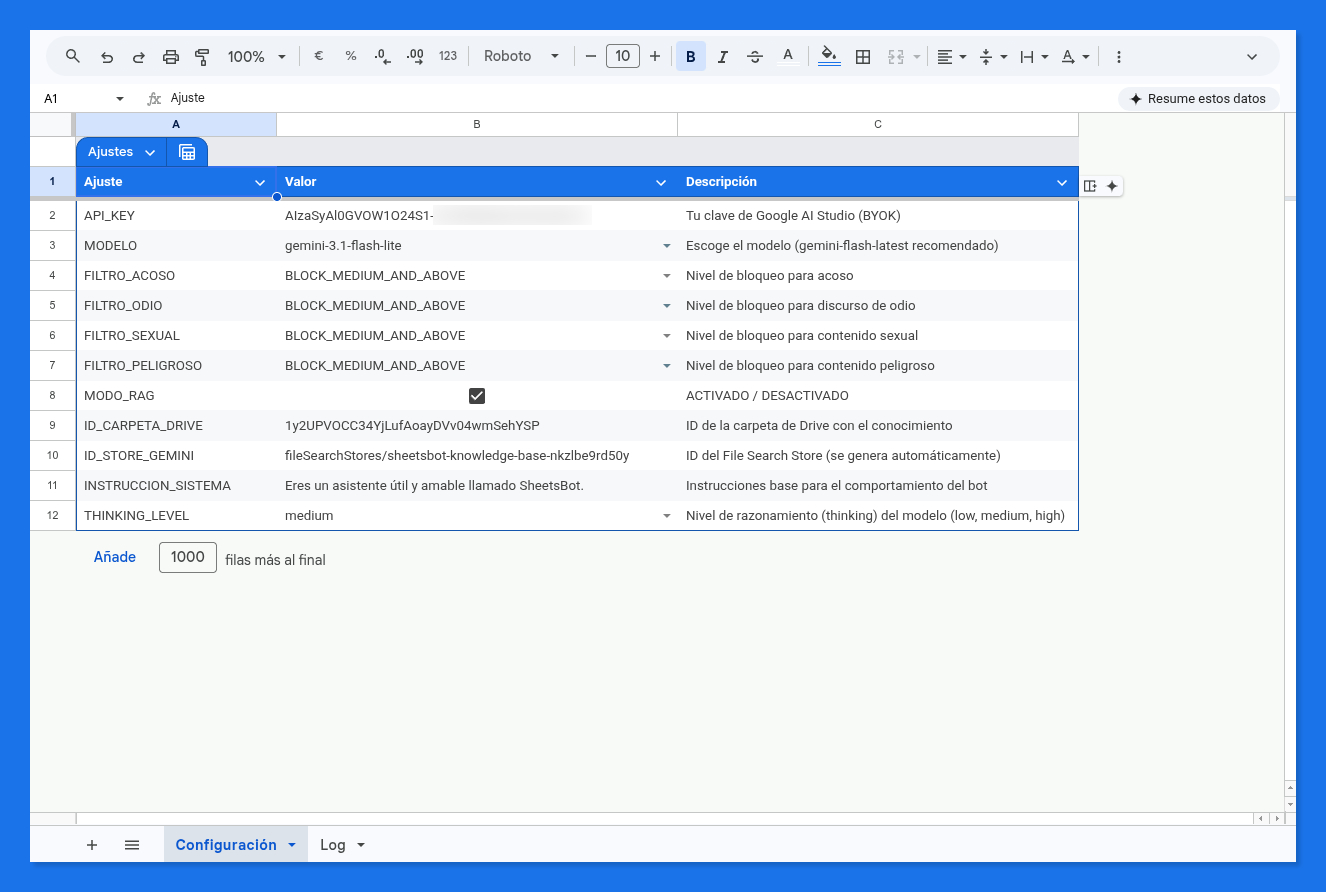
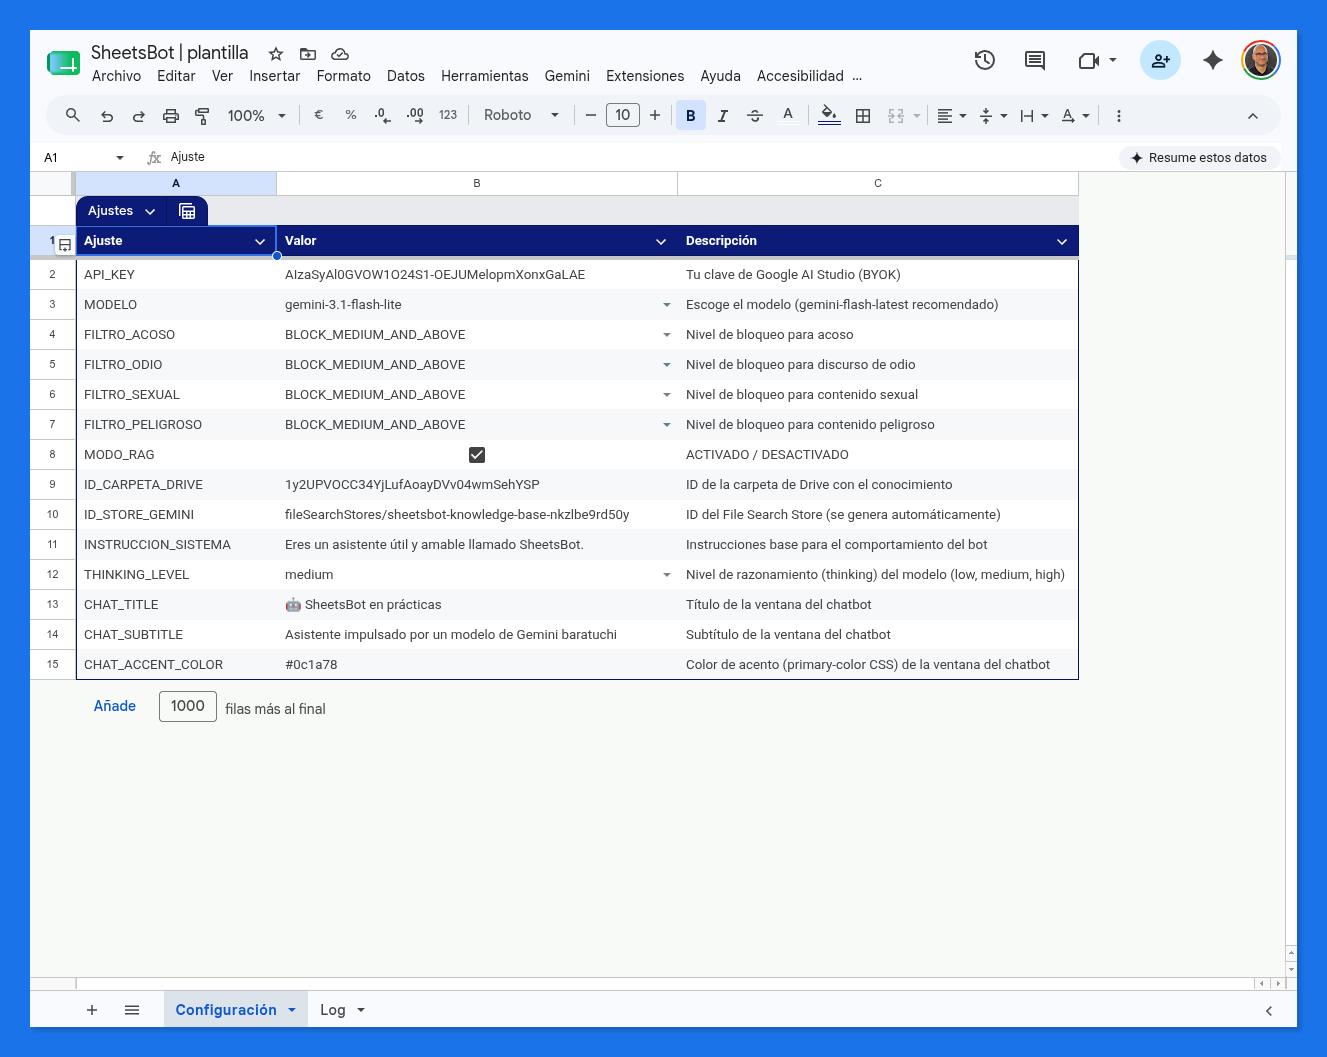
Fix UI customization logic: ensure CSS variables are correctly evaluated in the WebApp

Changed region(s): [[0.0, 0.0303, 0.9894, 0.6962], [0.0309, 0.9081, 0.9894, 0.9989], [0.0618, 0.6659, 0.0928, 0.6962]]

diff --git a/index.html b/index.html
@@ -2,6 +2,12 @@
 <html>
   <head>
     <base target="_top">
+    <style>
+      :root {
+        --primary-color: <?= accentColor ?>;
+        --user-msg-bg: <?= accentColor ?>;
+      }
+    </style>
     <?!= include('style'); ?>
     <!-- Marked.js para renderizar Markdown -->
     <script src="https://cdn.jsdelivr.net/npm/marked/marked.min.js"></script>

diff --git a/style.html b/style.html
@@ -1,10 +1,9 @@
 <style>
   :root {
-    --primary-color: <?= accentColor ?>;
+    /* Las variables --primary-color y --user-msg-bg se definen dinámicamente en index.html */
     --bg-color: #f5f7f9;
     --text-color: #333;
     --bot-msg-bg: #fff;
-    --user-msg-bg: <?= accentColor ?>;
     --user-msg-text: #fff;
     --border-radius: 12px;
   }
